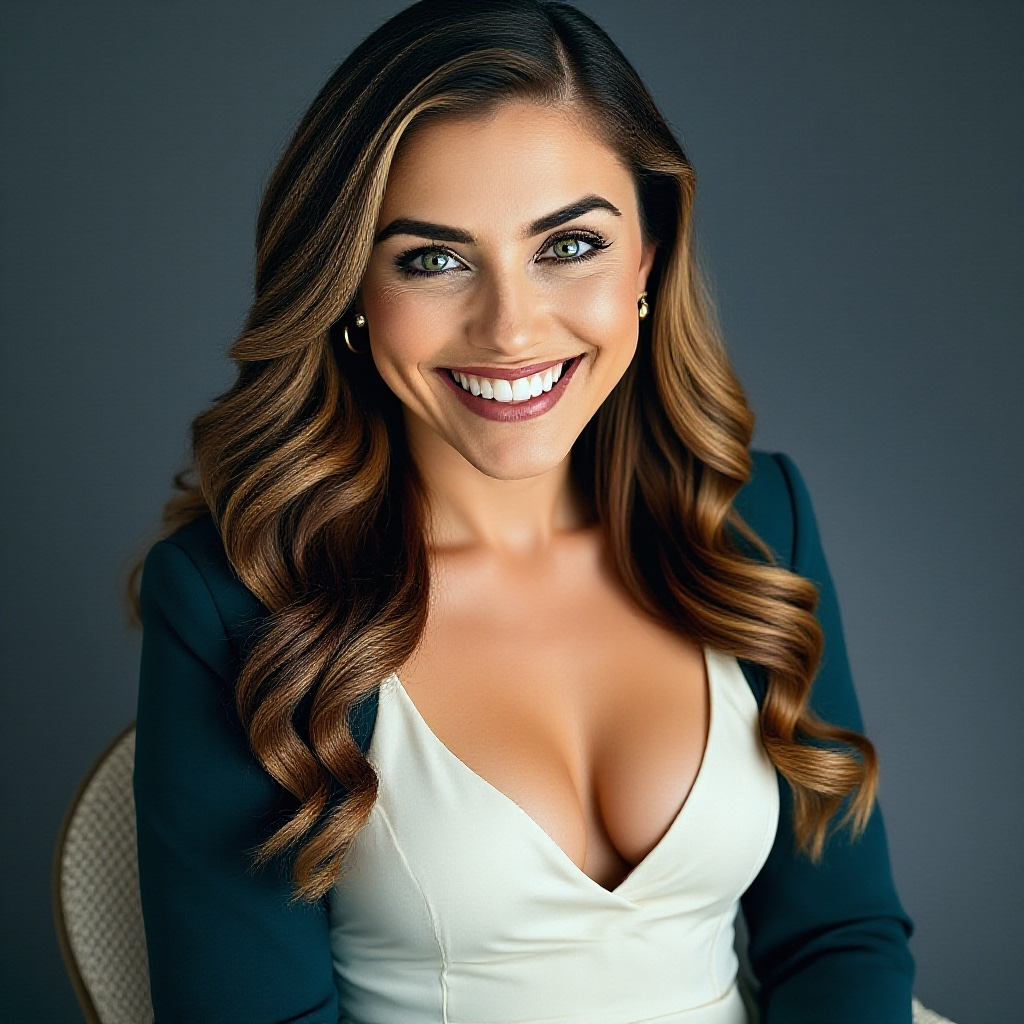
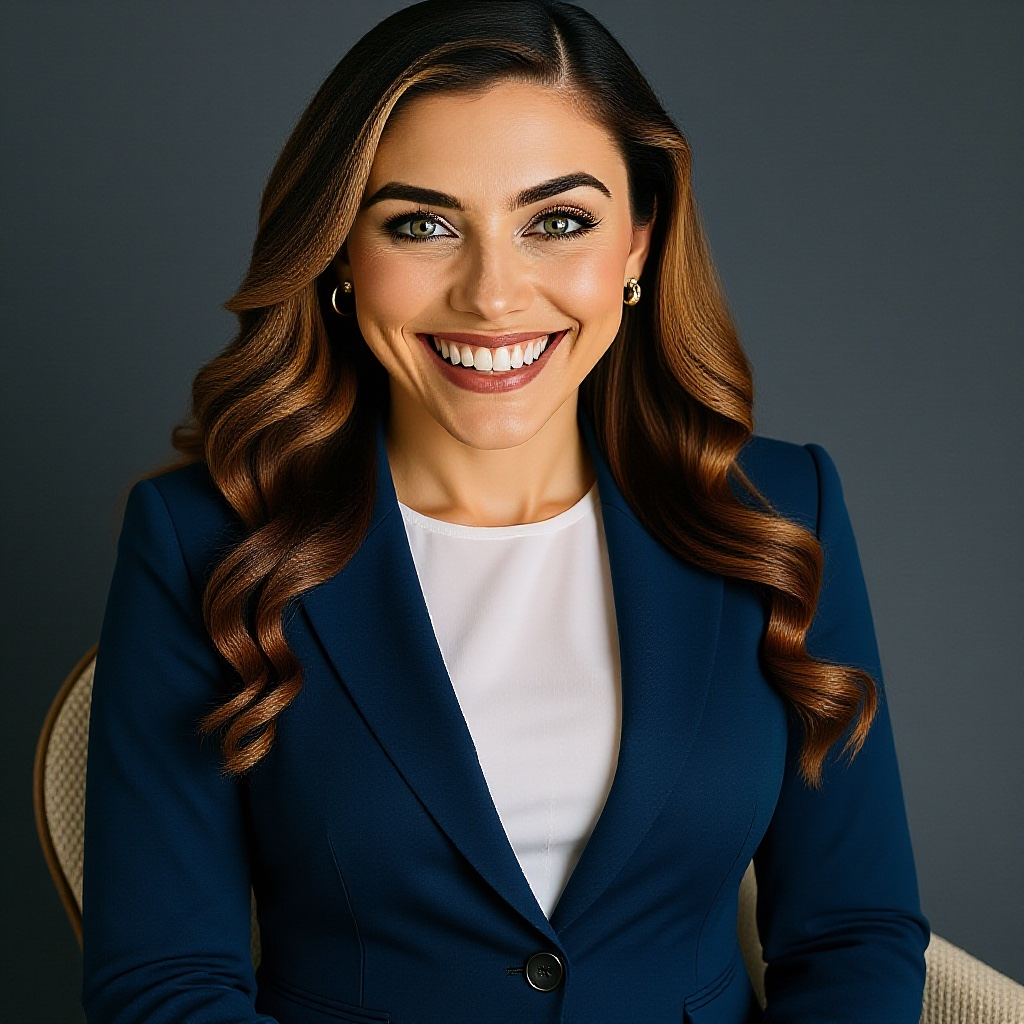
Ship SFW Alicia portrait and bust cache for the Alexis look switch.
Keep Alicia on the navy blazer look and force browsers to load the updated file.

diff --git a/brutus/static/alexis.js b/brutus/static/alexis.js
@@ -27,7 +27,7 @@ window.alexis = (() => {
   const status = text => { node('alexis-status').textContent = text; };
   const looks = {
     alexis: {src: '/static/alexis.jpg', alt: 'Alexis, your AI collaborator'},
-    alicia: {src: '/static/alicia.jpg', alt: 'Alicia'},
+    alicia: {src: '/static/alicia.jpg?v=4', alt: 'Alicia'},
   };
   function setLook(name) {
     const look = looks[name] || looks.alexis;
